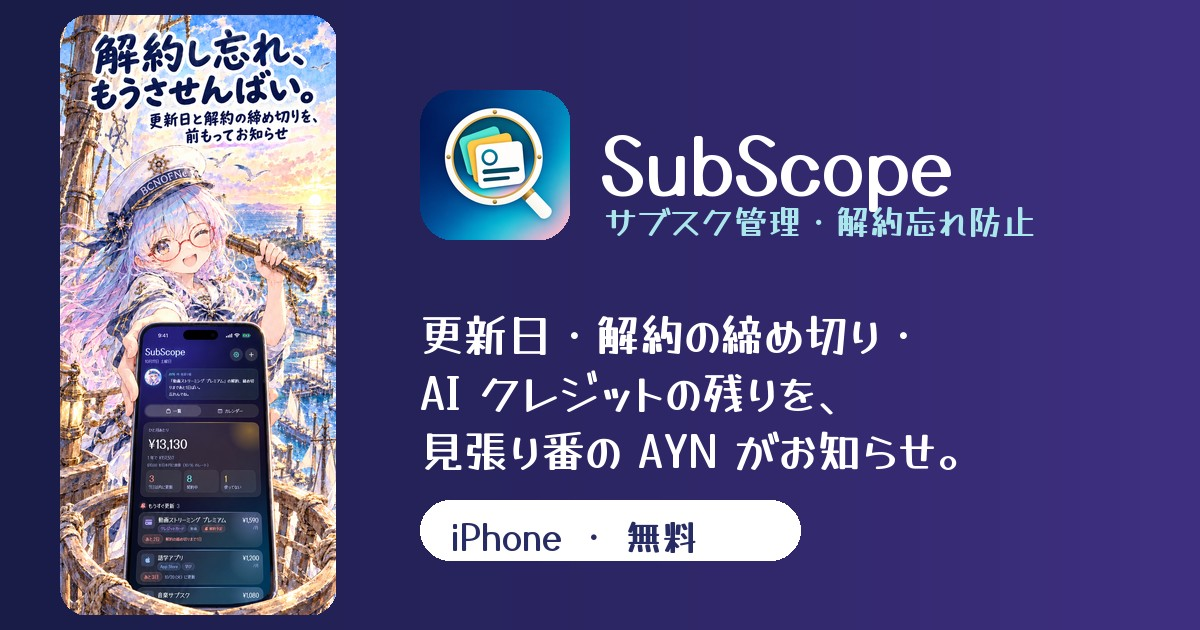
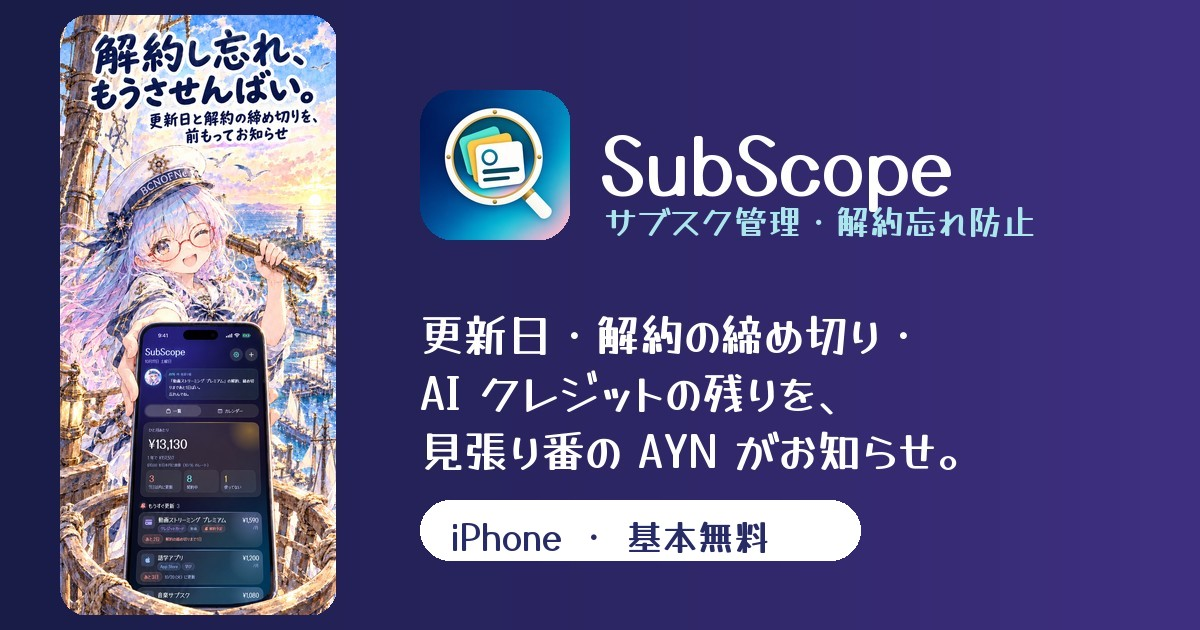
SubScope の表記を「無料」→「基本無料」に（アプリ内課金があるため・2026-10-19 マスター）

Changed region(s): [[0.5242, 0.7841, 0.74, 0.9048]]

diff --git a/src/content/apps/subscope.md b/src/content/apps/subscope.md
@@ -2,7 +2,7 @@
 title: SubScope（サブスコープ）
 summary: 契約中のサブスクの更新日・ひと月の合計・解約の締め切りを、見張り番のぼくが見張ってお知らせするアプリ。よくあるサブスクはチェックでまとめて登録できるばい。
 url: https://apps.apple.com/jp/app/id6819530548
-price: 無料
+price: 基本無料
 platform: iOS
 category: アプリ
 icon: ../../assets/app-subscope-icon.png
